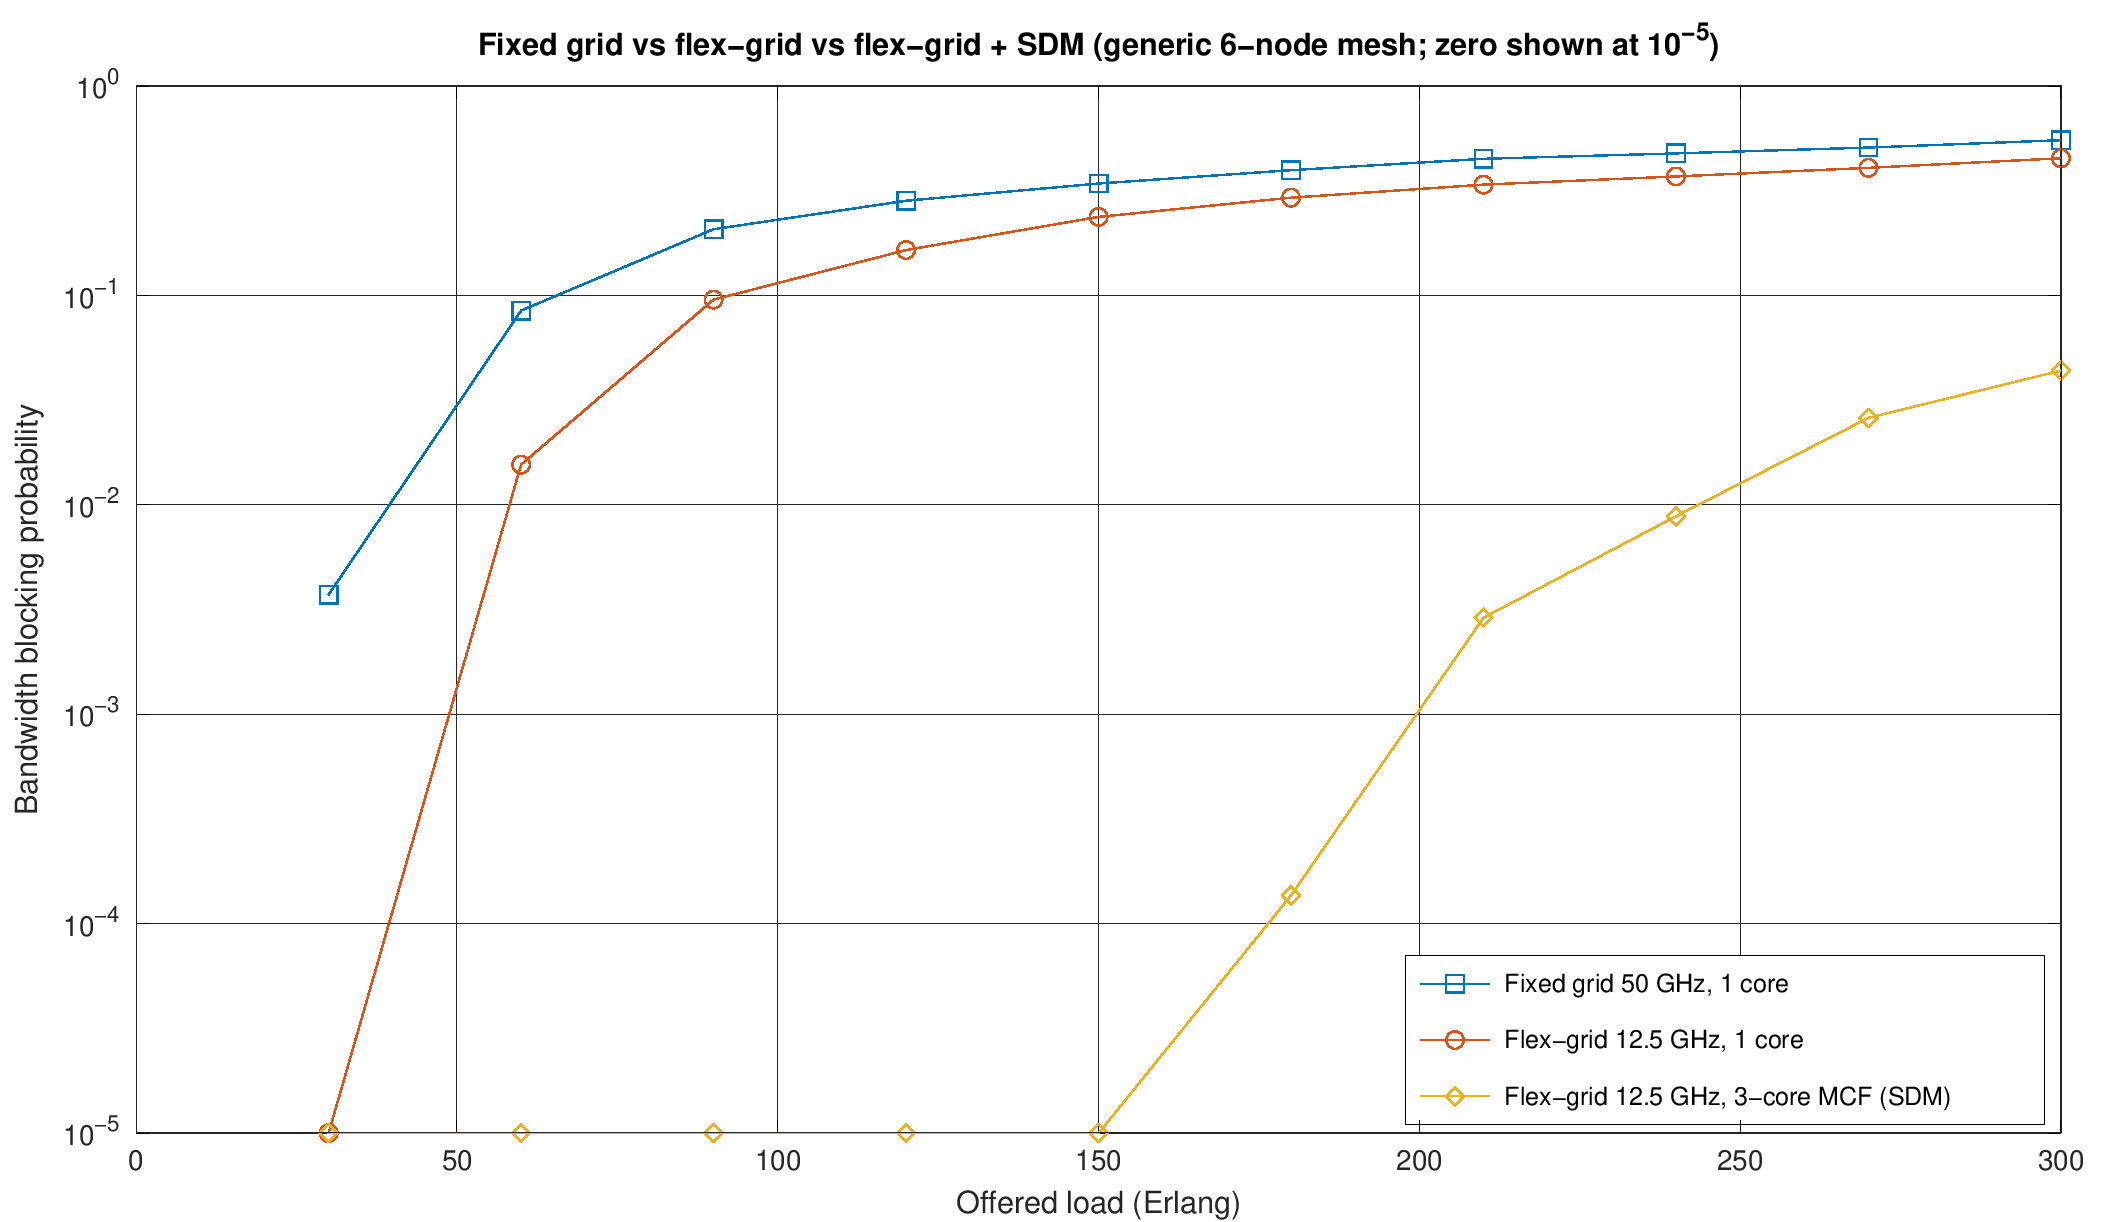
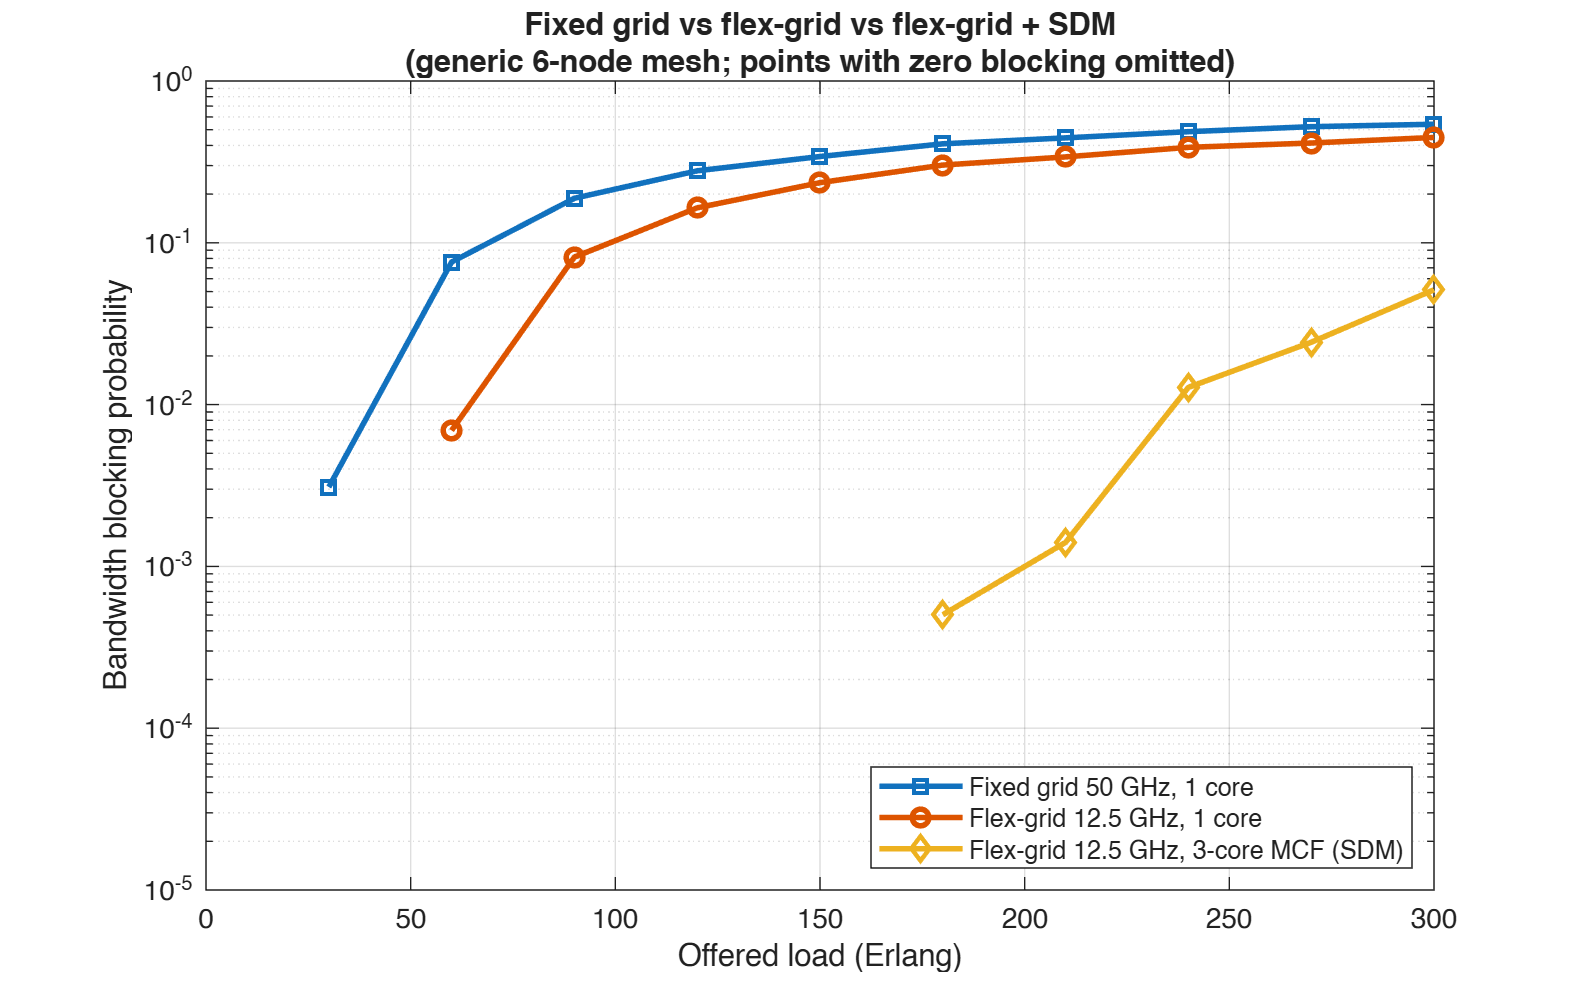
Replace repository contents with updated public overview, figures and demo

diff --git a/demo/demo_flexgrid_sdm_blocking.m b/demo/demo_flexgrid_sdm_blocking.m
@@ -69,7 +69,7 @@ path_links = cell(N);
 for s = 1:N
     for d = 1:N
         u = s; pl = [];
-        while u ~= d, v = nxt(u,d); pl(end+1) = lid(u,v); u = v; end %#ok<AGROW>
+        while u ~= d, v = nxt(u,d); pl(end+1) = lid(u,v); u = v; end %#ok<SAGROW>
         path_links{s,d} = pl;
     end
 end
@@ -118,7 +118,7 @@ for il = 1:numel(loads)
                 if r > n_warm, blocked = blocked + bw(r); end
             else
                 S(pl, s0:s0+n-1, core) = true;
-                act(end+1,:) = [t + t_hold(r), core, s0, n, r]; %#ok<AGROW>
+                act(end+1,:) = [t + t_hold(r), core, s0, n, r]; %#ok<SAGROW>
             end
         end
         BBP(c, il) = blocked / offered;
@@ -127,15 +127,16 @@ for il = 1:numel(loads)
 end
 
 %% Plot ---------------------------------------------------------------------
-fig = figure('Color', 'w', 'Position', [100 100 760 440]);
+fig = figure('Color', 'w', 'Position', [100 100 760 480]);
 mk = {'s-', 'o-', 'd-'};
 for c = 1:numel(cases)
-    semilogy(loads, max(BBP(c,:), 1e-5), mk{c}, 'LineWidth', 2); hold on;
+    y = BBP(c,:); y(y <= 0) = NaN;            % zero blocking cannot be drawn on a log axis
+    semilogy(loads, y, mk{c}, 'LineWidth', 2); hold on;
 end
 grid on; box on;
 xlabel('Offered load (Erlang)');
 ylabel('Bandwidth blocking probability');
-title('Fixed grid vs flex-grid vs flex-grid + SDM (generic 6-node mesh; zero shown at 10^{-5})');
+title({'Fixed grid vs flex-grid vs flex-grid + SDM', '(generic 6-node mesh; points with zero blocking omitted)'});
 legend({cases.name}, 'Location', 'southeast');
 ylim([1e-5 1]);
 

diff --git a/README.md b/README.md
@@ -109,9 +109,10 @@ use five seeds per point with 95 % confidence intervals.
 - **Node dimensioning matters as much as routing.** With the *same* total OXC budget, a transit-aware
   allocation lowers bandwidth blocking by **about an order of magnitude** at the lowest load studied compared
   with an even split, and stays ahead at every load. Degree- and spectral-type graph measures are no better than splitting evenly.
-- **The routing policy stops mattering once nodes saturate.** At low load, a state-aware re-routing
-  heuristic outperforms static K-shortest-path routing. At high load, blocking is dominated by node
-  switching capacity and the RMSA variants converge within their confidence intervals.
+- **The best routing policy depends on load.** At low load, a state-aware re-routing heuristic blocks
+  about a third less traffic than static K-shortest-path routing. At high load the ranking reverses
+  slightly, and the gaps between routing policies become small compared with the effect of node
+  dimensioning (paired tests over common random numbers).
 - **Physical-layer modelling changes the answer.** Replacing a conservative reach table with a GN-model
   QoT estimate lets the network carry noticeably more load at the same blocking. The physical-layer
   assumption is as consequential as the choice of routing algorithm.
@@ -120,10 +121,10 @@ use five seeds per point with 95 % confidence intervals.
 - **Bottlenecks are geographic.** Under forward-looking traffic, blocking concentrates on long
   inter-island corridors and on long-haul, high-rate demands, which points to targeted rather than
   network-wide upgrades.
-- **Engineering quality.** Nine automated regression tests pass, including bit-identical
-  reproduction of the earlier model and graph measures that match MATLAB reference implementations to
-  numerical precision. The restructured engine runs roughly an order of magnitude faster, which makes
-  multi-seed sweeps and simulation-in-the-loop optimisation practical.
+- **Engineering quality.** Nine automated regression tests pass in MATLAB R2026a, including
+  reproduction of the earlier model to ten significant digits and graph measures that match MATLAB
+  reference implementations to numerical precision. A full 10 000-request simulation takes seconds,
+  which makes multi-seed sweeps and simulation-in-the-loop optimisation practical.
 
 <p align="center">
   <img src="docs/figures/oxc_allocation_relative.png" width="640" alt="Relative bandwidth blocking versus relative offered load for three OXC allocation families">
@@ -140,7 +141,8 @@ use five seeds per point with 95 % confidence intervals.
 [`demo/demo_flexgrid_sdm_blocking.m`](demo/demo_flexgrid_sdm_blocking.m) reproduces, on a generic
 6-node mesh, the idea at the heart of the study: **why spectrum granularity and spatial channels change
 blocking in a transparent network.** It compares a 50 GHz fixed grid, a 12.5 GHz flex-grid and a
-flex-grid over 3-core fibre, all fed with identical traffic. It uses base MATLAB or GNU Octave only, and
+flex-grid over 3-core fibre, all fed with identical traffic. It uses base MATLAB or GNU Octave only (the
+figure was produced in MATLAB R2026a), and
 its topology, traffic and rules are generic, not those of the study.
 
 ```matlab
